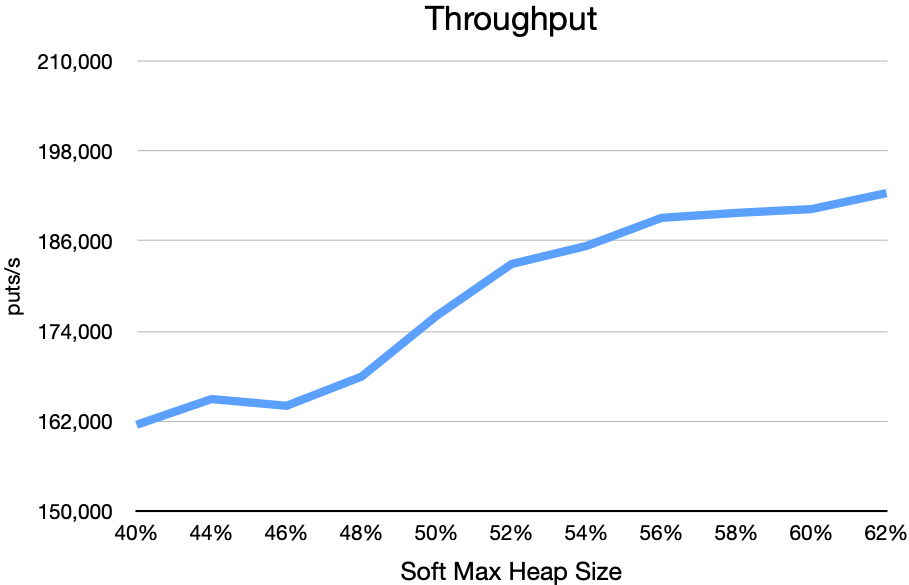
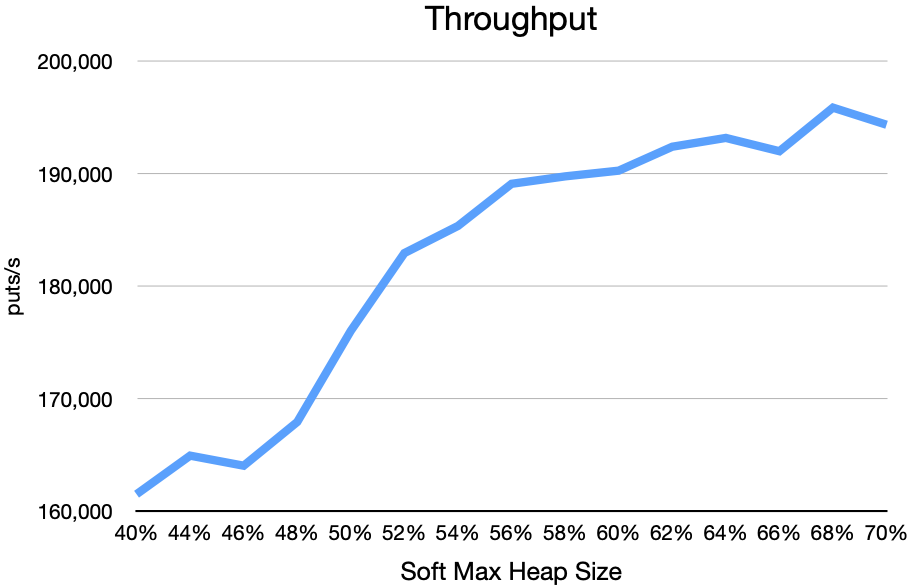
Add collection CPU utilization graphs

diff --git a/content/blog/zgc-and-heap-lru-eviction/index.md b/content/blog/zgc-and-heap-lru-eviction/index.md
@@ -85,6 +85,7 @@ Let's look at how heap usage is affected by different settings of `SoftMaxHeapSi
 
 #### Insufficient Collection Headroom
 Here's what heap usage looks like during "negative collection headroom" scenario:
+
 ![Insufficient Collection Headroom](images/long-lived-40-smhs-40-heap-usage.gif)
 
 Current usage never strays far from collection usage. This is a sign of insufficient collection headroom. Because current memory usage remains above `SoftMaxHeapSize` during the entire sustained updates phase, ZGC collects garbage continuously.
@@ -93,6 +94,7 @@ Note also that during the sustained updates phase, the ZHeap Collection Used Mem
 
 #### Insufficient Eviction Headroom
 The heap usage pattern is very different when `SoftMaxHeapSize` is set above the eviction threshold, at 70% of max heap size:
+
 ![Insufficient Eviction Headroom](images/long-lived-40-smhs-70-heap-usage.gif)
 
 In this scenario, ZHeap Current Used Memory shows frequent excursions above the eviction threshold. The result is that GemFire evicts entries from memory, which is reflected in the declining ZHeap Collection Used Memory.
@@ -101,6 +103,7 @@ As we will see, collections are far less frequent in this scenario compared to t
 
 #### Sufficient Collection Headroom and Eviction Headroom
 In this scenario, `SoftMaxHeapSize` is set well below the eviction threshold and well above the long-lived heap usage:
+
 ![Sufficient Collection Headroom](images/long-lived-40-smhs-56-heap-usage.gif)
 
 This gives the system sufficient collection headroom below `SoftMaxHeapSize` and sufficient eviction headroom above. Tuned in this way, ZGC keeps heap usage well away from the eviction threshold, allowing the system to avoid eviction. And it is able to do this with relatively infrequent garbage collections.
@@ -109,33 +112,33 @@ Note that the requirements for eviction headroom and collection headroom depend 
 
 ### Throughput
 As `SoftMaxHeapSize` rises, application throughput rises (puts per second):
+
 ![Throughput](images/long-lived-40-throughput.png)
 
-In these scenarios, 16 threads performed fixed-size puts as fast as possible for 2 minutes. Note that these client threads executed in a separate JVM, but on the same GCP instance as the GemFire server. So these client threads competed with both the server and ZGC for the instance's 16 CPUs.
+In these scenarios, 16 client threads performed fixed-size puts as fast as possible for 2 minutes. Note that these client threads executed in a separate JVM, but on the same GCP instance as the GemFire server. So the client threads competed with the server operations and with ZGC for the instance's 16 CPUs.
 
-The throughput curve is subtly S-shaped, with a slightly higher slope in the middle of the graph than at either end. When `SoftMaxHeapSize` is set too low, the garbage collection tasks interfere with performance, keeping throughput slightly flatter on the left side of the graph. The graph also flattens subtly at the right side of the graph, perhaps suggesting that throughput is approaching some unidentified limit.
+The throughput curve is subtly S-shaped, with a slightly higher slope in the middle of the graph than at either end. When `SoftMaxHeapSize` is set too low, the garbage collection tasks interfere with performance, keeping throughput slightly flatter on the left side of the graph. The graph also flattens subtly at the right side of the graph, as collection CPU utilization approaches 0.
 
+To see how garbage collection tasks interfere with throughput, let's first look at the mean number of CPUs occupied by garbage collection during each scenario:
 
-### Collections
+![Mean Worker Count](images/long-lived-40-collection-cpu-utilization.png)
 
-**NOTE:**
-These collection times are clock time, not CPU time.
+When ZGC has insufficient collection headroom, collects garbage more often and assigns more threads to the garbage collection tasks. If collection headroom is low enough, as in the scenarios where `SoftMaxHeapSize` was near or even below long-lived heap usage, ZGC kept 4 CPUs busy at nearly all times.
 
-![Total Collection Time](images/long-lived-40-total-collection-time.png)
+If we subtract the number of CPUs busy doing garbage collection from the total number of CPUs, we get the number of CPUs available for other tasks:
 
-When `SoftMaxHeapSize` is too low, and ZGC does not have enough collection headroom, ZGC triggers garbage collections at the rate of 2 per second.
+![Mean Worker Count](images/long-lived-40-cpu-availability.png)
 
-As `SoftMaxHeapSize` rises, each collection takes more time, but the frequency of collections falls faster than mean collection time rises.
+This graph is essentially the same as the throughput graph. The lesson is clear: To maximize throughput, give ZGC plenty of collection headroom.
+
+On a 16 CPU host, ZGC by default uses a maximum of 4 threads for garbage collection. In the scenarios where `SoftMaxHeapSize` is too low, and ZGC does not have enough collection headroom, garbage collection on average keeps nearly 1/4 of the instance's CPUs busy at all times.
 
 ![Collections](images/long-lived-40-collections.png)
 
-![Mean Collection Time](images/long-lived-40-mean-collection-time.png)
+In the scenarios where `SoftMaxHeapSize` is too low, and ZGC does not have enough collection headroom, ZGC performs garbage collections at the rate of 2 per second.
 
-## ZGC Allocation Rate Quirk
-ZGC's heuristics tend to be pessimistic about both allocation rate and garbage collection duration. They assume that the actual allocation rate will usually be higher than recently measured, and the collection time will usually be longer. This pessimism usually allows ZGC to keep actual heap usage safely below its target maximum.
+When `SoftMaxHeapSize` is too low, and ZGC does not have enough collection headroom, ZGC uses a total 464 CPU seconds for the collections. Given that nearly all of the collections occur during the sustained update phase, which lasts 2 minutes, ZGC is keeping an average of 3.87 CPUs busy at all times.
 
-There is a specific, uncommon circumstance that can fool ZGC into briefly under-performing: A long period of low allocation rate followed by a sudden long period of very high allocation rate. If ZGC samples the allocation rate just as it begins to rise, the Allocation Rate heuristic can significantly under-predict the impending allocation rate. When this happens, ZGC can start a collection that uses too few threads, resulting in a collection task that is too slow to handle the actual, unexpectedly high allocation rate.
+![Collection CPU Time](images/long-lived-40-collection-cpu-time.png)
 
-Even when ZGC's next sample measures the now-higher allocation rate, it will not start a interrupt or adjust the in-progress collection, which will continue with its too few worker threads until it finishes.
-
-The scenarios in my experiments often create this peculiar circumstance.
+As `SoftMaxHeapSize` rises, the average collection CPU time drops off slightly, even as the garbage production rate increases.
